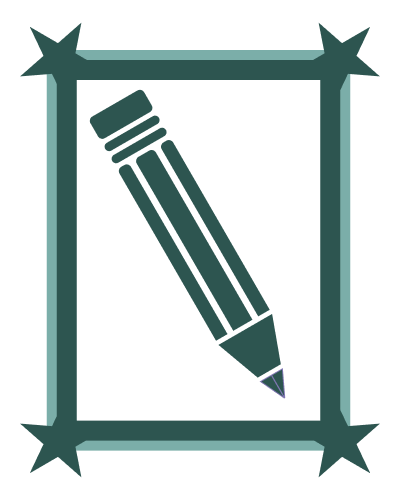
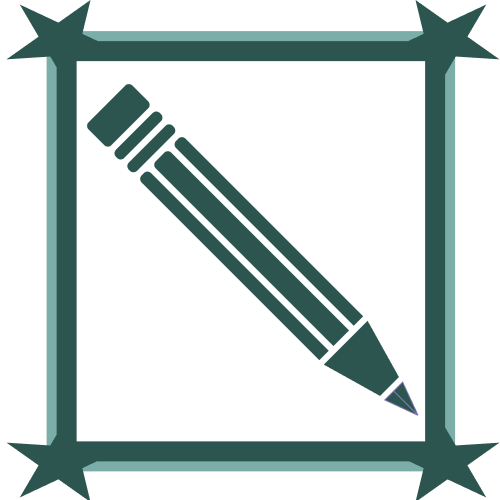
additional page flair

diff --git a/public/style/style_gallery.css b/public/style/style_gallery.css
@@ -1,13 +1,13 @@
-main {
+section {
     display: grid;
     grid-template-columns: 1fr 1fr 1fr;
 }
 
 .galleryBtn {
-    width: 16vw;
-    height: 16vw;
+    width: 14vw;
+    height: 14vw;
 
-    margin: 2vw;
+    margin: 1.5vw 1.5vw 0;
 
     text-decoration: none;
     justify-self: center;
@@ -18,6 +18,8 @@ main {
 h4 {
     text-align: center;
     line-height: 2vw;
+    padding-top: 10px;
+    padding-bottom: 10px;
     margin-top: 7vw;
 
     background-color: rgba(45, 85, 80, 0.7);

diff --git a/public/style/style_general.css b/public/style/style_general.css
@@ -101,6 +101,7 @@ main {
 }
 
 h2 {
+    display: inline-block;
     color: rgba(45, 85, 80, 1);
     font-size: 4em;
     margin: 0;
@@ -125,6 +126,14 @@ h3 {
     border-width: 1vw;
     border-radius: 11vw;
     border-color:  rgba(123, 174, 169, 1.0);
+}
+
+.smallGraphic {
+    display: inline-block;
+    width: 10vh;
+    padding: 0.5vw;
+
+    vertical-align: middle;
 }
 
 @media (max-width: 600px) {
